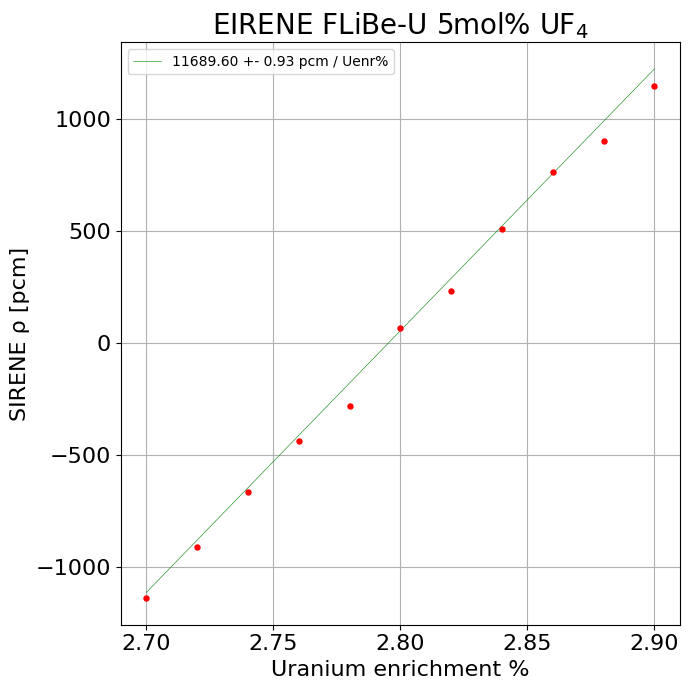
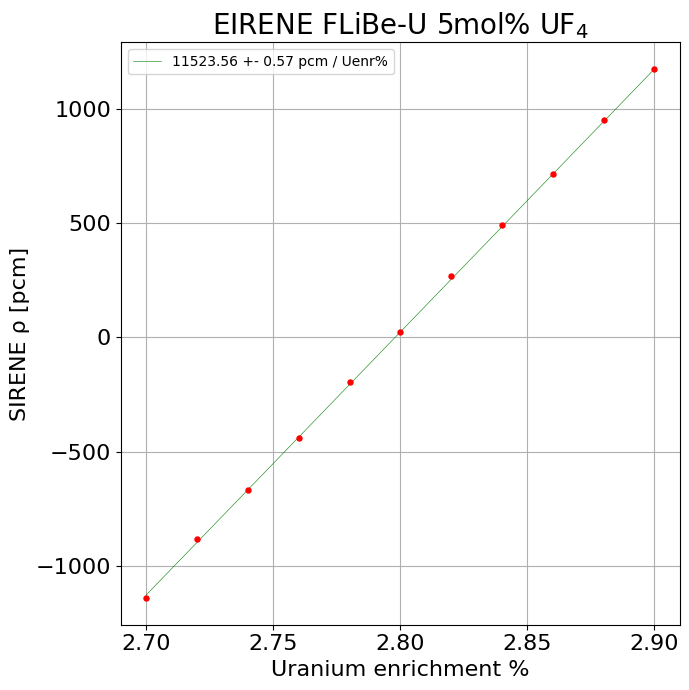
SIRENE

diff --git a/SIRENE/utilities/SIRENE-enr.py b/SIRENE/utilities/SIRENE-enr.py
@@ -323,7 +323,7 @@ therm grph {Tgr} "grph.{grlib0}" "grph.{grlib1}" % Graphite at {Tgr} K
 
 
 % --- Neutron population and criticality cycles:
-set pop 20000 520 20
+set pop 50000 820 20
 
 % --- Geometry and mesh plots:
 plot 3 1000 1000
